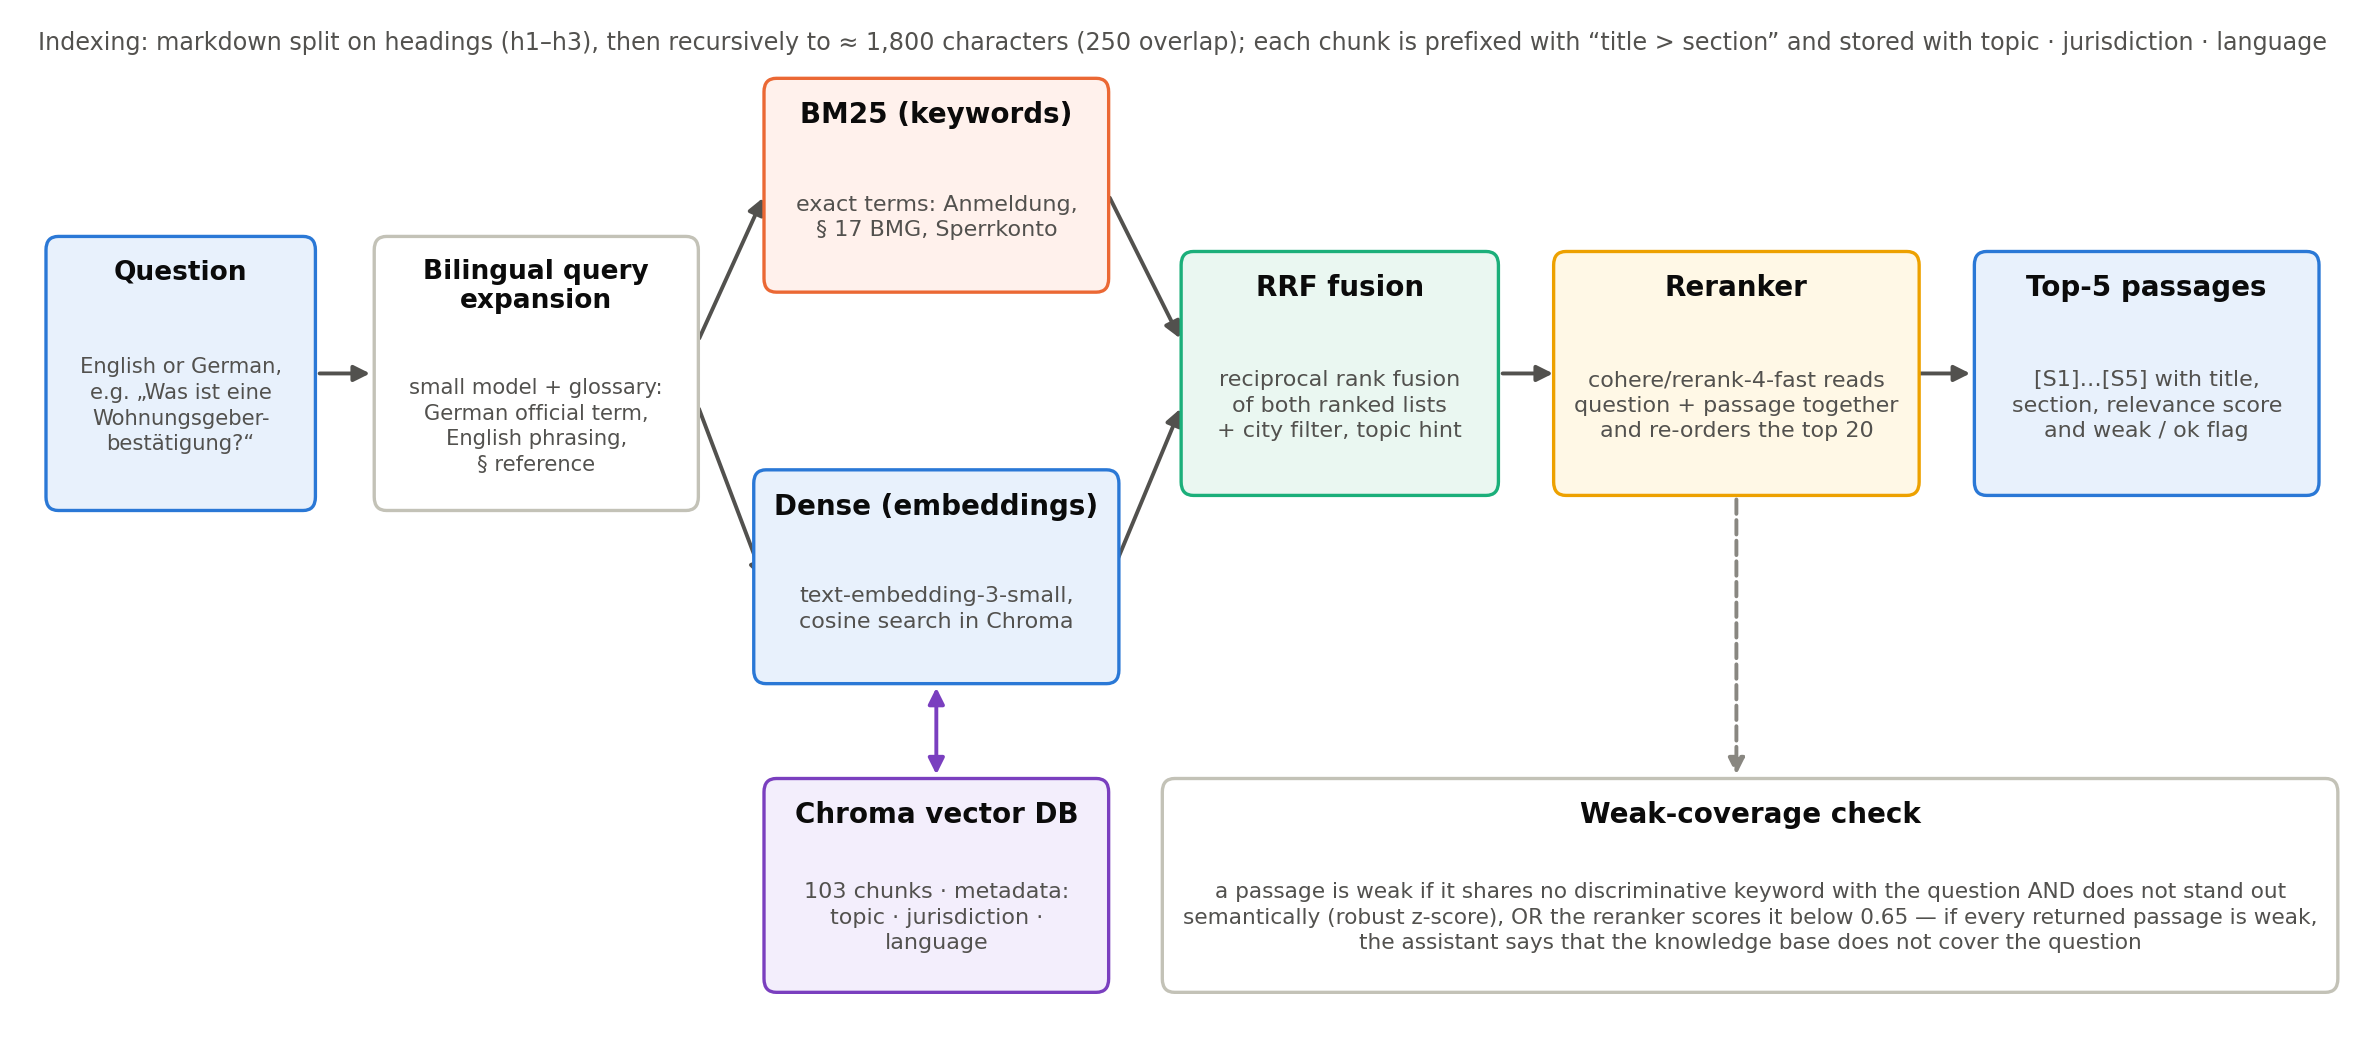
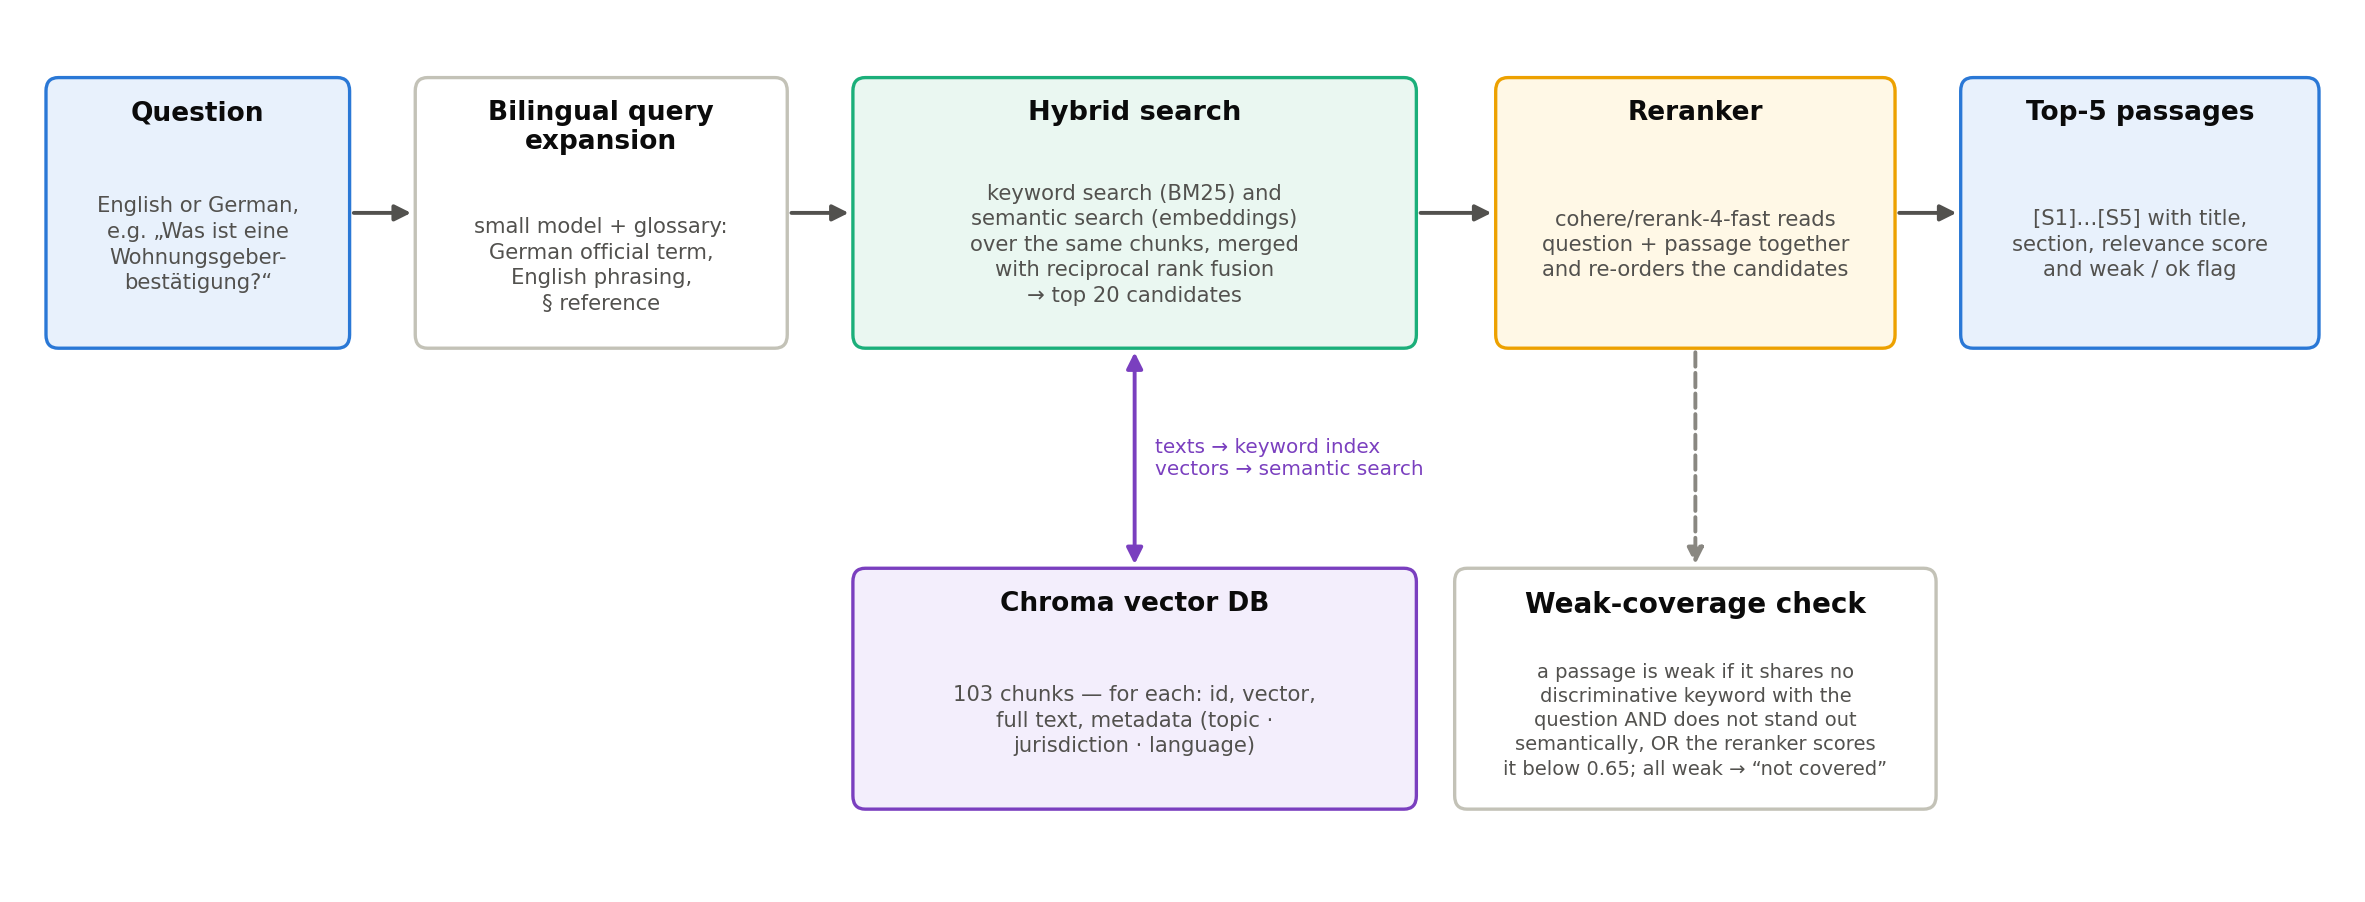
Refining the explanation of Retrieval Pipeline

diff --git a/docs/make_figures.py b/docs/make_figures.py
@@ -1,5 +1,5 @@
 # ruff: noqa: E702
-"""Regenerate the 9 README figures in docs/img/ (diagrams + result charts). Pure matplotlib, no network.
+"""Regenerate the 11 README figures in docs/img/ (diagrams + result charts). Pure matplotlib, no network.
 
     python docs/make_figures.py
 
@@ -133,24 +133,59 @@ def knowledge_base() -> None:
     fig.savefig(OUT / "knowledge_base.png", bbox_inches="tight", facecolor="white"); plt.close(fig)
 
 
+def kb_build() -> None:
+    """§1.2.1 — build time: markdown → chunks → vectors → Chroma records."""
+    fig, ax = plt.subplots(figsize=(15, 3.4), dpi=200); ax.set_xlim(0, 34); ax.set_ylim(0, 6.6); ax.axis("off")
+    ax.text(17, 6.2, "Building the knowledge base — once, by scripts/ingest.py or automatically when the app finds the index empty",
+            ha="center", fontsize=9.2, fontweight="bold", color=INK)
+    y, h = 1.2, 3.8
+    box(ax, 0.4, y, 6.4, h, f"{DOCS} markdown documents", "data/processed/*.md\nYAML front matter: title, topic,\njurisdiction, language, source URL", ts=9.4, bs=7.4)
+    box(ax, 7.8, y, 7.8, h, "Chunking", "split on headings (#, ##, ###), then to\n≈ 1,800 characters with 250 overlap;\nevery chunk prefixed “[title > section]”\nand given the document's metadata → " + f"{CHUNKS} chunks", ts=9.4, bs=7.4)
+    box(ax, 16.6, y, 7.4, h, "Embedding", "each chunk text → 1,536-number vector\nopenai/text-embedding-3-small\nvia OpenRouter, batches of 32\n(the only network step)", fc=LIGHTBLUE, ec=BLUE, ts=9.4, bs=7.4)
+    box(ax, 25.0, y, 8.6, h, "Chroma collection — data/chroma/", "one record per chunk:\nchunk id · vector · full text · metadata\nSQLite (text, metadata) + HNSW index (vectors);\nthe only stored copy of the chunks", fc="#f3eefc", ec=PURPLE, ts=9.4, bs=7.4)
+    for x1, x2 in ((6.8, 7.8), (15.6, 16.6), (24.0, 25.0)):
+        arrow(ax, x1, y + h / 2, x2, y + h / 2)
+    fig.savefig(OUT / "kb_build.png", bbox_inches="tight", facecolor="white"); plt.close(fig)
+
+
 def hybrid_rag() -> None:
-    fig, ax = plt.subplots(figsize=(15, 6.6), dpi=200); ax.set_xlim(0, 34); ax.set_ylim(0, 13.5); ax.axis("off")
-    ax.text(17, 13.1, "Indexing: markdown split on headings (h1–h3), then recursively to ≈ 1,800 characters (250 overlap); each chunk is prefixed with “title > section” and stored with topic · jurisdiction · language",
-            ha="center", fontsize=8.6, color=INK2)
-    box(ax, 0.4, 7.0, 3.9, 3.6, "Question", "English or German,\ne.g. „Was ist eine\nWohnungsgeber-\nbestätigung?“", fc=LIGHTBLUE, ec=BLUE, ts=9.5, bs=7.6)
-    box(ax, 5.2, 7.0, 4.7, 3.6, "Bilingual query\nexpansion", "small model + glossary:\nGerman official term,\nEnglish phrasing,\n§ reference", ts=9.5, bs=7.6)
-    box(ax, 10.9, 9.9, 5.0, 2.8, "BM25 (keywords)", "exact terms: Anmeldung,\n§ 17 BMG, Sperrkonto", fc="#fff1ec", ec=ORANGE)
-    box(ax, 10.9, 4.7, 5.0, 2.8, "Dense (embeddings)", "text-embedding-3-small,\ncosine search in Chroma", fc=LIGHTBLUE, ec=BLUE)
-    box(ax, 17.0, 7.2, 4.6, 3.2, "RRF fusion", "reciprocal rank fusion\nof both ranked lists\n+ city filter, topic hint", fc="#eaf7f1", ec=GREEN)
-    box(ax, 22.5, 7.2, 5.2, 3.2, "Reranker", "cohere/rerank-4-fast reads\nquestion + passage together\nand re-orders the top 20", fc="#fff8e6", ec=AMBER)
-    box(ax, 28.6, 7.2, 5.0, 3.2, "Top-5 passages", "[S1]…[S5] with title,\nsection, relevance score\nand weak / ok flag", fc=LIGHTBLUE, ec=BLUE)
-    box(ax, 10.9, 0.6, 5.0, 2.8, "Chroma vector DB", f"{CHUNKS} chunks · metadata:\ntopic · jurisdiction ·\nlanguage", fc="#f3eefc", ec=PURPLE)
-    box(ax, 17.0, 0.6, 16.6, 2.8, "Weak-coverage check", "a passage is weak if it shares no discriminative keyword with the question AND does not stand out\nsemantically (robust z-score), OR the reranker scores it below 0.65 — if every returned passage is weak,\nthe assistant says that the knowledge base does not cover the question", bs=7.8)
-    arrow(ax, 4.3, 8.8, 5.2, 8.8); arrow(ax, 9.9, 9.2, 10.9, 11.2); arrow(ax, 9.9, 8.4, 10.9, 6.0)
-    arrow(ax, 15.9, 11.2, 17.0, 9.2); arrow(ax, 15.9, 6.0, 17.0, 8.4); arrow(ax, 21.6, 8.8, 22.5, 8.8); arrow(ax, 27.7, 8.8, 28.6, 8.8)
-    arrow(ax, 13.4, 4.7, 13.4, 3.4, color=PURPLE, style="<|-|>"); arrow(ax, 25.1, 7.2, 25.1, 3.4, color=MUTED, ls="--")
+    """§1.2.2 — query time overview: question → expansion → hybrid search (one box) → reranker → top 5."""
+    fig, ax = plt.subplots(figsize=(15, 5.6), dpi=200); ax.set_xlim(0, 34); ax.set_ylim(0, 11.6); ax.axis("off")
+    y, h = 7.2, 3.6
+    box(ax, 0.4, y, 4.4, h, "Question", "English or German,\ne.g. „Was ist eine\nWohnungsgeber-\nbestätigung?“", fc=LIGHTBLUE, ec=BLUE, ts=9.5, bs=7.6)
+    box(ax, 5.8, y, 5.4, h, "Bilingual query\nexpansion", "small model + glossary:\nGerman official term,\nEnglish phrasing,\n§ reference", ts=9.5, bs=7.6)
+    box(ax, 12.2, y, 8.2, h, "Hybrid search", "keyword search (BM25) and\nsemantic search (embeddings)\nover the same chunks, merged\nwith reciprocal rank fusion\n→ top 20 candidates", fc="#eaf7f1", ec=GREEN, ts=9.8, bs=7.6)
+    box(ax, 21.6, y, 5.8, h, "Reranker", "cohere/rerank-4-fast reads\nquestion + passage together\nand re-orders the candidates", fc="#fff8e6", ec=AMBER, ts=9.5, bs=7.6)
+    box(ax, 28.4, y, 5.2, h, "Top-5 passages", "[S1]…[S5] with title,\nsection, relevance score\nand weak / ok flag", fc=LIGHTBLUE, ec=BLUE, ts=9.5, bs=7.6)
+    for x1, x2 in ((4.8, 5.8), (11.2, 12.2), (20.4, 21.6), (27.4, 28.4)):
+        arrow(ax, x1, y + h / 2, x2, y + h / 2)
+    box(ax, 12.2, 1.0, 8.2, 3.2, "Chroma vector DB", f"{CHUNKS} chunks — for each: id, vector,\nfull text, metadata (topic ·\njurisdiction · language)", fc="#f3eefc", ec=PURPLE, ts=9.5, bs=7.6)
+    arrow(ax, 16.3, y, 16.3, 4.2, color=PURPLE, style="<|-|>")
+    ax.text(16.6, 5.7, "texts → keyword index\nvectors → semantic search", fontsize=7.2, color=PURPLE, ha="left", va="center")
+    box(ax, 21.0, 1.0, 7.0, 3.2, "Weak-coverage check", "a passage is weak if it shares no\ndiscriminative keyword with the\nquestion AND does not stand out\nsemantically, OR the reranker scores\nit below 0.65; all weak → “not covered”", bs=7.0)
+    arrow(ax, 24.5, y, 24.5, 4.2, color=MUTED, ls="--")
     fig.savefig(OUT / "hybrid_rag.png", bbox_inches="tight", facecolor="white"); plt.close(fig)
 
+
+def hybrid_search() -> None:
+    """§1.2.3 — inside the hybrid search: keyword and semantic search over the same chunks, Chroma between them."""
+    fig, ax = plt.subplots(figsize=(15, 6.6), dpi=200); ax.set_xlim(0, 34); ax.set_ylim(0, 14.6); ax.axis("off")
+    ax.text(17, 14.2, "Inside the hybrid search — two searches over the same chunks, one store", ha="center", fontsize=10.5, fontweight="bold", color=INK)
+    ax.text(17, 13.55, "runs for the question and each rewritten variant; the keyword search is local, the semantic search makes one embedding call per variant", ha="center", fontsize=8.2, color=MUTED)
+    box(ax, 8.0, 9.9, 18.0, 2.9, "Keyword search — BM25", "scores against the BM25 index held in memory — built at app start from the chunk texts\nread out of Chroma, rebuilt in milliseconds, never written to disk\n→ ranked list of the 20 best chunks (text, metadata, BM25 score)", fc="#fff1ec", ec=ORANGE, ts=9.8, bs=7.4)
+    box(ax, 11.0, 5.7, 12.0, 2.6, "Chroma — the only stored copy of the chunks", f"{CHUNKS} records: id · vector · full text · metadata — on disk, written once at build time", fc="#f3eefc", ec=PURPLE, ts=9.6, bs=7.4)
+    box(ax, 8.0, 1.3, 18.0, 2.9, "Semantic search — embeddings", "the question vector is compared with the stored chunk vectors in Chroma's HNSW index\n(cosine distance; the jurisdiction filter is applied inside the search)\n→ ranked list of the 20 nearest chunks (text, metadata, cosine similarity)", fc=LIGHTBLUE, ec=BLUE, ts=9.8, bs=7.4)
+    box(ax, 0.4, 5.4, 5.8, 3.2, "Query variant", "+ optional city →\njurisdiction filter\n{federal, munich}", fc=LIGHTBLUE, ec=BLUE, ts=9.6, bs=7.4)
+    box(ax, 27.8, 5.4, 5.8, 3.2, "Reciprocal rank\nfusion", "each list adds 1/(60 + rank)\nper chunk; sum, sort →\ntop 20 for the reranker", fc="#eaf7f1", ec=GREEN, ts=9.6, bs=7.2)
+    arrow(ax, 6.2, 7.6, 8.0, 11.3); arrow(ax, 6.2, 6.4, 8.0, 2.7)
+    arrow(ax, 26.0, 11.3, 27.8, 7.6); arrow(ax, 26.0, 2.7, 27.8, 6.4)
+    ax.text(27.3, 9.9, "20 chunks,\nranked", fontsize=7.0, color=MUTED, ha="left", va="center")
+    ax.text(27.3, 4.1, "20 chunks,\nranked", fontsize=7.0, color=MUTED, ha="left", va="center")
+    arrow(ax, 17.0, 8.3, 17.0, 9.9, color=PURPLE)
+    ax.text(17.3, 9.1, "chunk texts — read once at app start to build the BM25 index", fontsize=7.4, color=PURPLE, ha="left", va="center")
+    arrow(ax, 17.0, 5.7, 17.0, 4.2, color=PURPLE, style="<|-|>")
+    ax.text(17.3, 4.95, "vectors — nearest-neighbour search on every query", fontsize=7.4, color=PURPLE, ha="left", va="center")
+    fig.savefig(OUT / "hybrid_search.png", bbox_inches="tight", facecolor="white"); plt.close(fig)
 
 
 def _example_strip(ax, cells, y, h, label="Example"):
@@ -319,5 +354,5 @@ def results_faithfulness() -> None:
 
 
 if __name__ == "__main__":
-    architecture(); knowledge_base(); hybrid_rag(); grounding_check(); guardrails(); not_covered(); evaluation_metrics(); results_retrieval(); results_faithfulness()
-    print(f"written 9 figures to {OUT}")
+    architecture(); knowledge_base(); kb_build(); hybrid_rag(); hybrid_search(); grounding_check(); guardrails(); not_covered(); evaluation_metrics(); results_retrieval(); results_faithfulness()
+    print(f"written 11 figures to {OUT}")

diff --git a/README.md b/README.md
@@ -17,7 +17,7 @@ answer comes back in the language you asked in (or the one you pin in the sideba
 | **Stack** | LangChain 1.x + LangGraph · OpenRouter · ChromaDB · RAGAS · Streamlit |
 | **How it fits together** | [Architecture diagram](#architecture) below · [agent & tools](#1-the-langchain-agent) · [grounding check](#2-grounding-check) · [guardrails](#3-guardrails-and-out-of-domain-questions) |
 
-![Demo: a student arrival question with deadline tool, knowledge-base search and citations; a salary question chaining currency conversion into the Blue Card check; a not-covered question answered with a referral; a prompt-injection attempt stopped by the guardrails](docs/img/navigator_demo_full.gif)
+![Demo: an English question about moving to Munich on 20 December 2026 answered with the registration deadline from the deadline calculator, the responsible office, late-registration consequences and the documents to bring, each cited to a knowledge-base passage; a German question from a married couple in Berlin on tax class 3/5 versus 4/4, who may switch, and the monthly net in class 3 from the net-salary calculator, answered in German; a Kindergeld question the knowledge base does not cover, answered with a referral to the Familienkasse and no amounts](docs/img/navigator_demo_full.gif)
 
 Setup, commands and troubleshooting live in **[docs/TECHNICAL.md](docs/TECHNICAL.md)**.
 
@@ -44,32 +44,53 @@ matching vocabulary to retrieve against.
 
 ### 1.2 Hybrid (advanced) RAG
 
-![Hybrid RAG](docs/img/hybrid_rag.png)
+#### 1.2.1 Building the knowledge base
+
+![Building the knowledge base](docs/img/kb_build.png)
+
+The knowledge base is built once, by `scripts/ingest.py` or automatically when the app finds the index empty.
+
+Each of the 18 markdown documents is split on its headings and then, where a section is still long, into pieces of
+about 1,800 characters with a 250-character overlap, every chunk prefixed with its *title > section* path — 103 chunks
+in all.
+
+Each chunk is embedded with `text-embedding-3-small` via OpenRouter and stored in **Chroma** as one record holding the
+chunk id, the vector, the full text and the metadata (topic, jurisdiction, language, source URL), so Chroma is both the
+vector index and the only stored copy of the text.
+
+#### 1.2.2 Retrieval pipeline
+
+![Retrieval pipeline](docs/img/hybrid_rag.png)
+
+German terms in an English knowledge base are bridged before the search: a small model rewrites the question into up
+to three variants — the German official term from the glossary, an English phrasing and, where relevant, the law
+paragraph — so *"blocked account"* also searches for *Sperrkonto* and vice versa. Each variant then goes through the
+hybrid search described in [§1.2.3](#123-hybrid-search), which returns the 20 best candidates.
+
+A Cohere cross-encoder (`rerank-4-fast`, via OpenRouter) reads question and passage together and re-orders them, which
+is what lifts the expected document to rank 1 in almost every case (MRR 0.85 → 0.97).
+
+Finally a passage is flagged *weak* when it shares no discriminative keyword with the question and does not stand out
+semantically, or when the reranker scores it below 0.65; if every returned passage is weak, the tool tells the model
+that the knowledge base does not cover the question — the mechanism behind the not-covered handling in §3.
+
+#### 1.2.3 Hybrid search
+
+![Hybrid search](docs/img/hybrid_search.png)
 
 Bureaucracy questions come in two kinds — exact administrative terms and law references (*Sperrkonto*, *§ 17 BMG*),
 which keyword search finds and embeddings often blur, and paraphrased everyday questions (*"where do I tell the city I
-moved?"*) that only semantic search catches — so the retriever combines both:
+moved?"*) that only semantic search catches — so the retriever runs both over the same chunks.
 
-- **Hybrid search with RRF.** BM25 and dense cosine search run over the same chunks, and the two ranked lists are
-  fused with Reciprocal Rank Fusion, which rewards passages both methods rate highly without needing their scores to
-  be comparable.
-- **Chunking and storage in Chroma.** Each markdown file is split on its headings first and then recursively to about
-  1,800 characters with a 250-character overlap; every chunk is prefixed with its *title > section* path and stored in
-  **Chroma**, chosen because it runs embedded in the app with a persistent local directory, needs no server and keeps
-  the topic, jurisdiction and language metadata that the city filter and topic hint rely on.
-- **Bilingual query expansion.** German terms in an English knowledge base are bridged before the search: a small
-  model rewrites the question into up to three variants — the German official term from the glossary, an English
-  phrasing and, where relevant, the law paragraph — so *"blocked account"* also searches for *Sperrkonto* and vice
-  versa, while BM25 keeps `§ 17` as a single keyword and drops German and English stop words.
-- **Reranking.** A Cohere cross-encoder (`rerank-4-fast`, via OpenRouter) reads question and passage together and
-  re-orders the top 20, which is what lifts the expected document to rank 1 in almost every case (MRR 0.85 → 0.97).
-- **Weak-coverage detection.** A passage is flagged *weak* when it shares no discriminative keyword with the question
-  and does not stand out semantically, or when the reranker scores it below 0.65. If every returned passage is weak,
-  the tool tells the model that the knowledge base does not cover the question — the mechanism behind the not-covered
-  handling in §3.
+**Keyword search** (BM25) tokenises the question the same way as the chunks and scores every chunk on how often it
+contains the question's rare words, using an index built in memory at app start from the texts in Chroma.
 
-The evaluation confirms the design as a whole: dense alone and BM25 alone each miss one question in twenty, hybrid
-finds all of them.
+**Semantic search** embeds the question and asks Chroma for the nearest vectors by cosine similarity, with the
+jurisdiction filter applied inside the search.
+
+The two ranked lists are fused with Reciprocal Rank Fusion, which rewards passages both methods rate highly without
+needing their scores to be comparable; the evaluation confirms the combination — dense alone and BM25 alone each miss
+one question in twenty, hybrid finds all of them.
 
 ### 1.3 Tools
 
